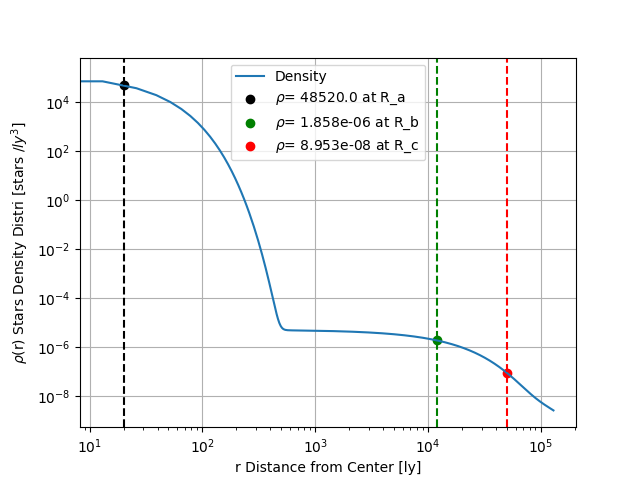
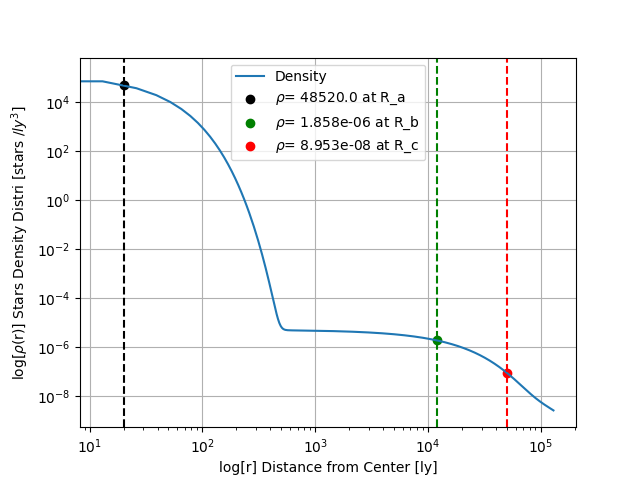
added ISS_Descent.ipynb

Changed region(s): [[0.0, 0.2188, 0.0625, 0.7812], [0.3438, 0.9375, 0.6875, 1.0]]

diff --git a/Galactic_star_distri.py b/Galactic_star_distri.py
@@ -42,8 +42,8 @@ for i in range(len(a)):
 plt.axvline(x = 20, linestyle= "--", color = 'black')
 plt.axvline(x = 1.2e4, linestyle= "--", color = 'green')
 plt.axvline(x = 5e4, linestyle= "--", color = 'red')
-plt.xlabel("r Distance from Center [ly]")
-plt.ylabel(r"$\rho$(r) Stars Density Distri [stars /$ly^3$]")
+plt.xlabel("log[r] Distance from Center [ly]")
+plt.ylabel(r"log[$\rho$(r)] Stars Density Distri [stars /$ly^3$]")
 plt.xscale("log")
 plt.yscale("log")
 plt.legend()

diff --git a/tempCodeRunnerFile.py b/tempCodeRunnerFile.py
@@ -1,0 +1,1 @@
+$\rho$(r)
